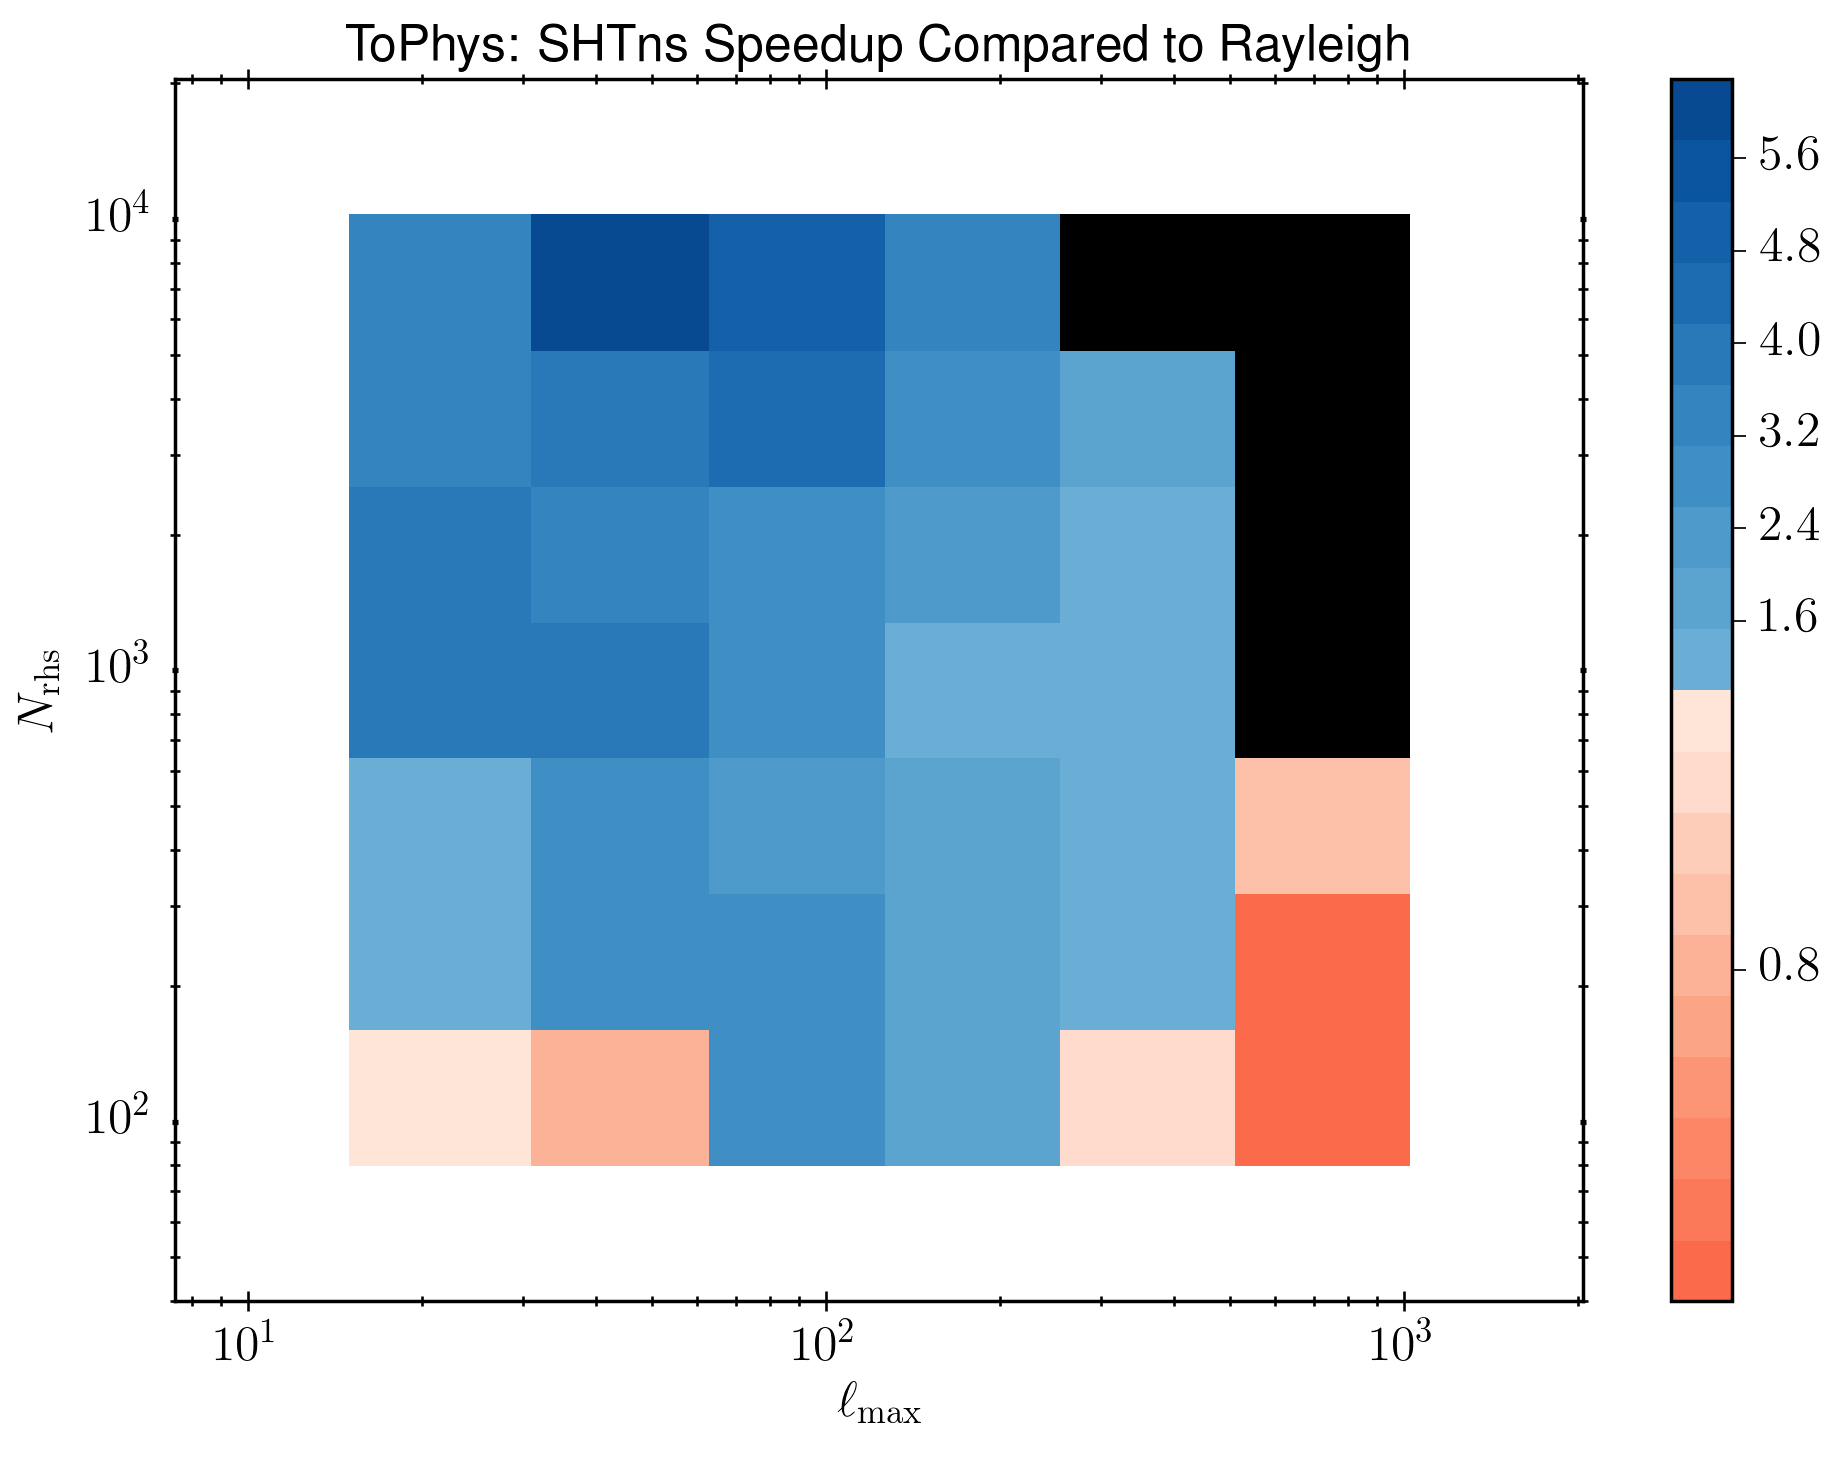
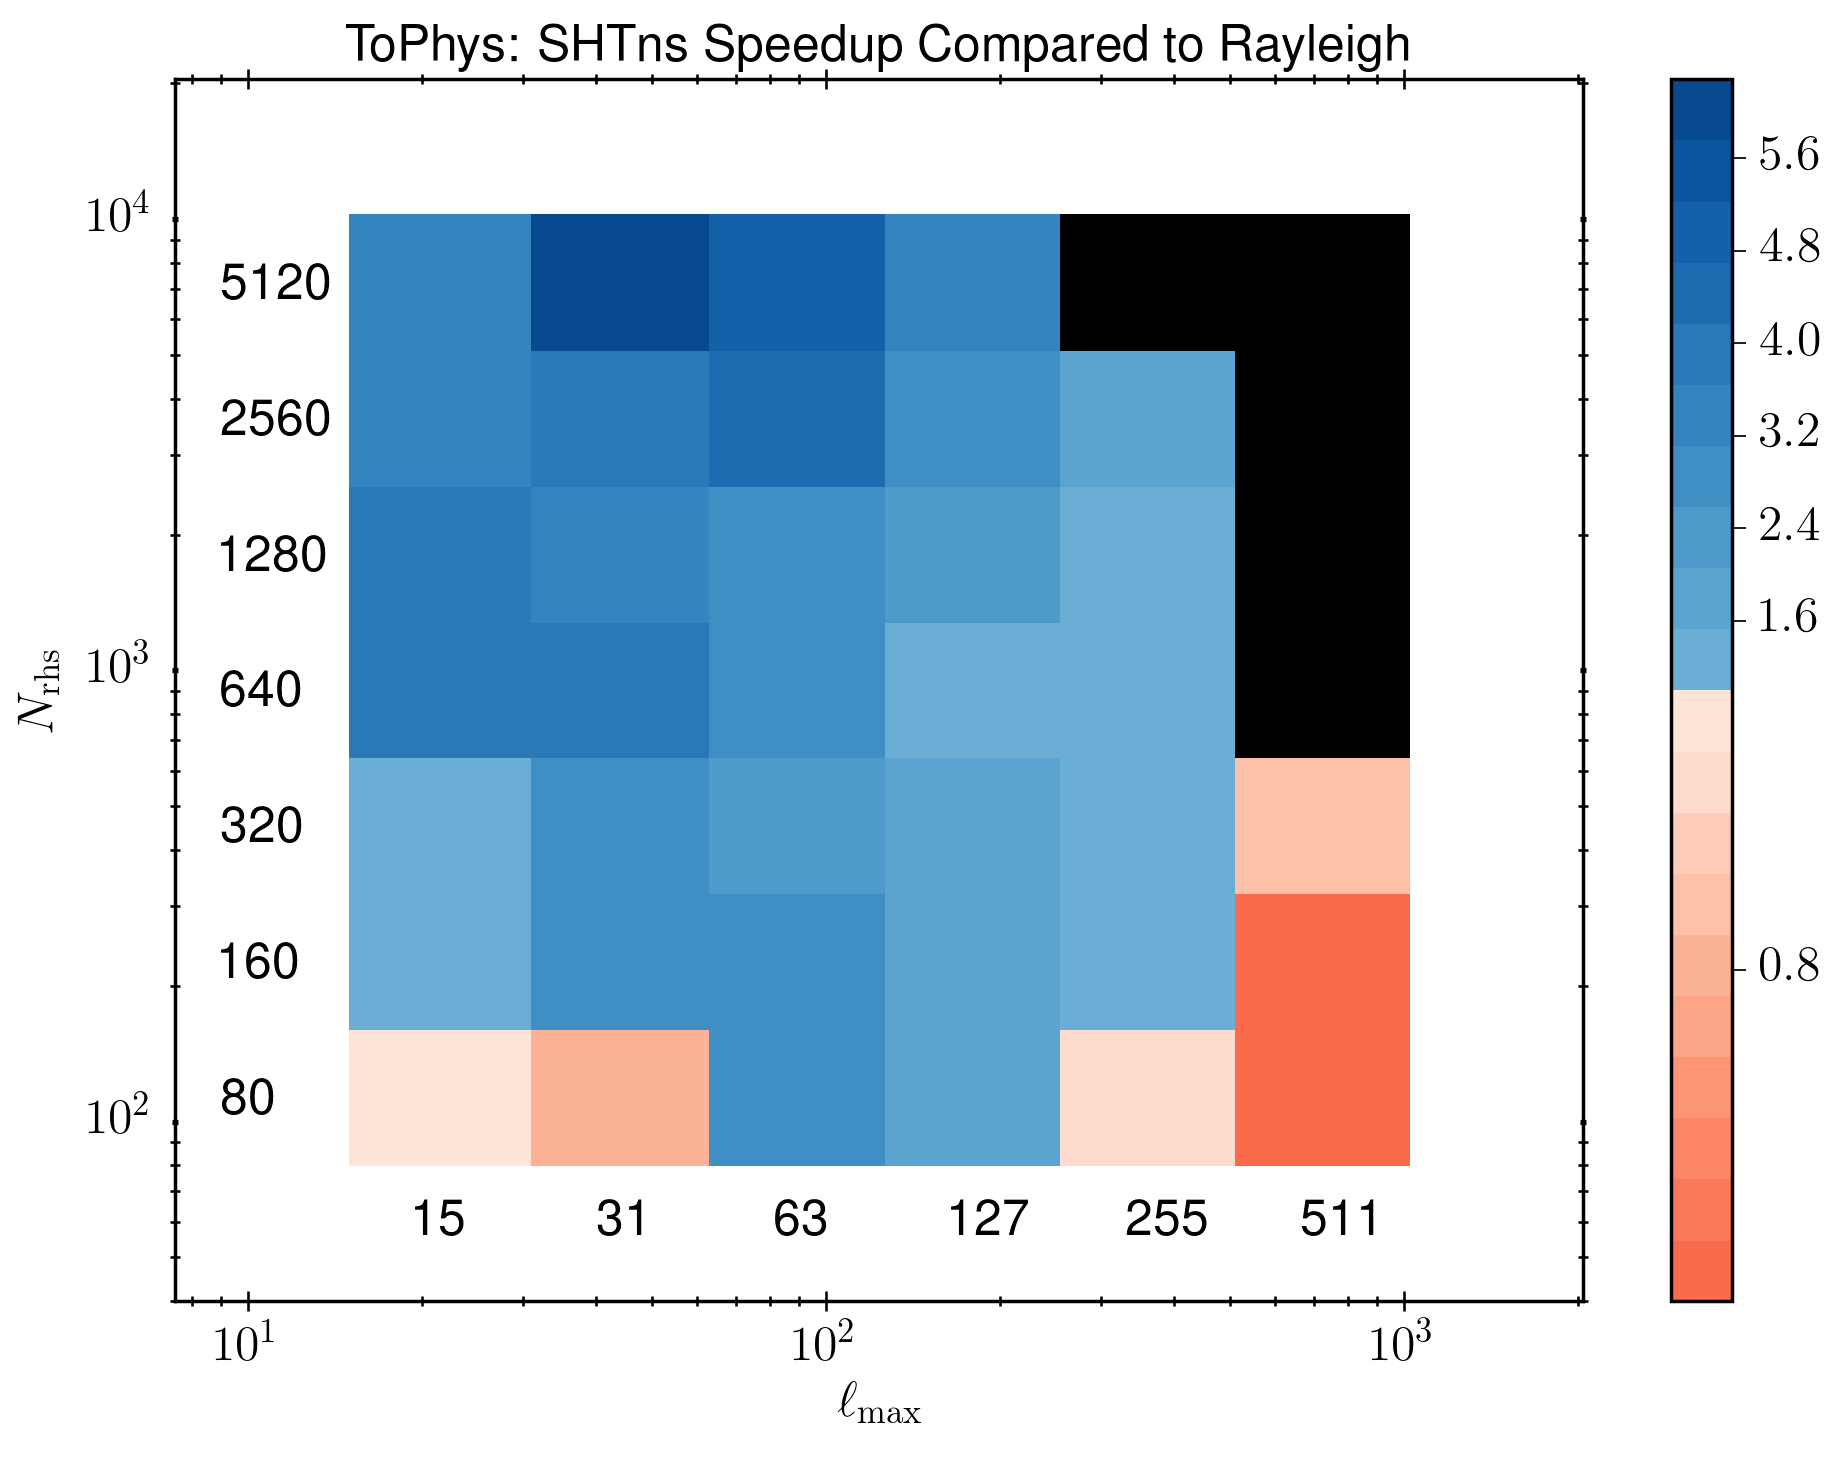
add text to grid figures

diff --git a/serial-wrapper/plotting/plotting.py b/serial-wrapper/plotting/plotting.py
@@ -92,6 +92,14 @@ def PlotGrid(x, y, data, output, xlabel, ylabel, title, xlog=True, ylog=True, dp
     cbar = fig.colorbar(img, orientation='vertical')
     cbar.ax.tick_params(direction='out', labelsize=label)
 
+    # text
+    xvals = x[:,0]; yvals = y[0,:]
+    xlo = np.min(xvals); ylo = np.min(yvals)
+    for xval in xvals:
+        ax.text(1.3*xval, 0.7*ylo, str(xval), color='k', fontsize='large')
+    for yval in yvals:
+        ax.text(0.6*xlo, 1.3*yval, str(yval), color='k', fontsize='large')
+
     #================================================================
     plt.tight_layout()
 
